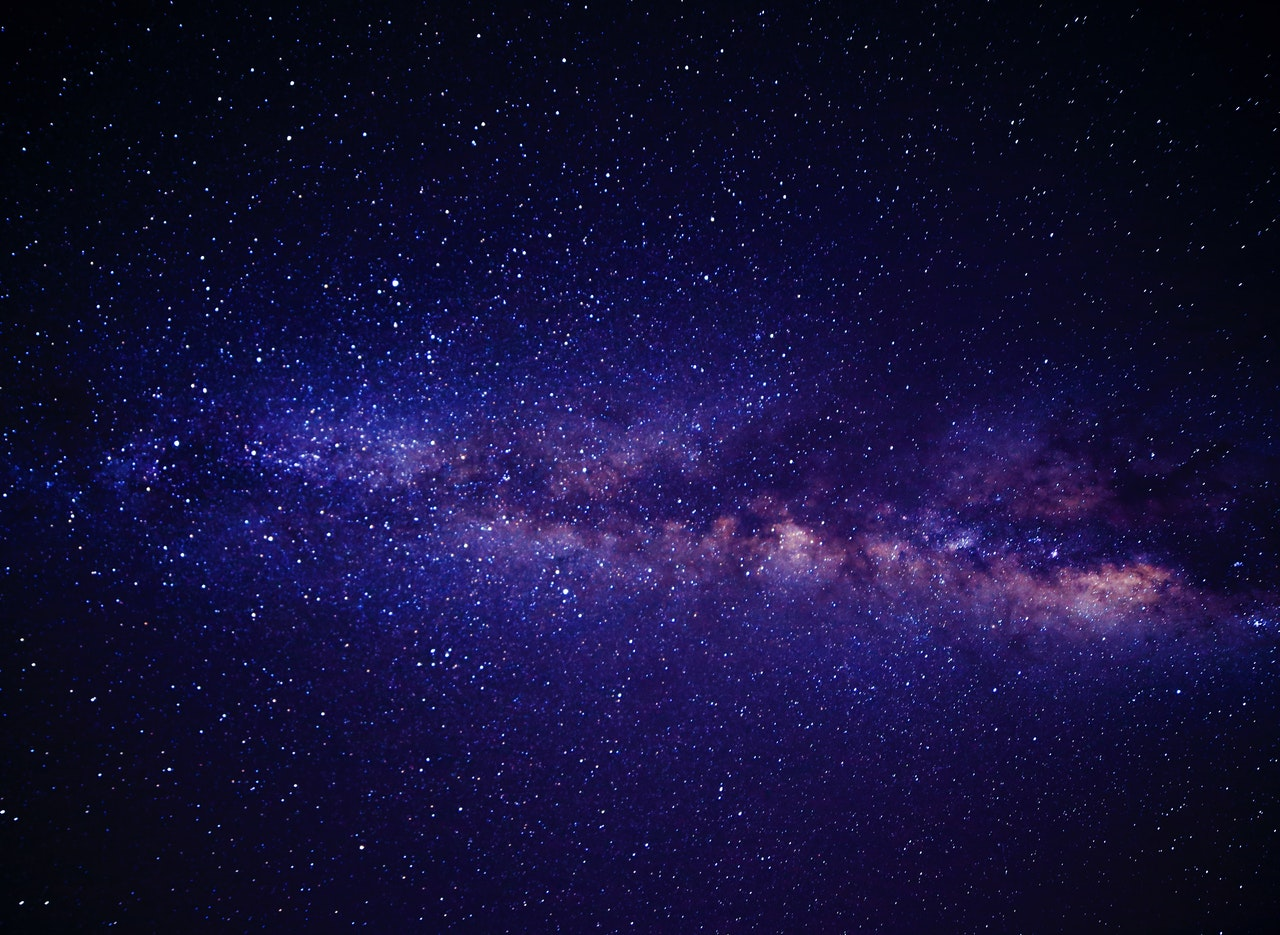
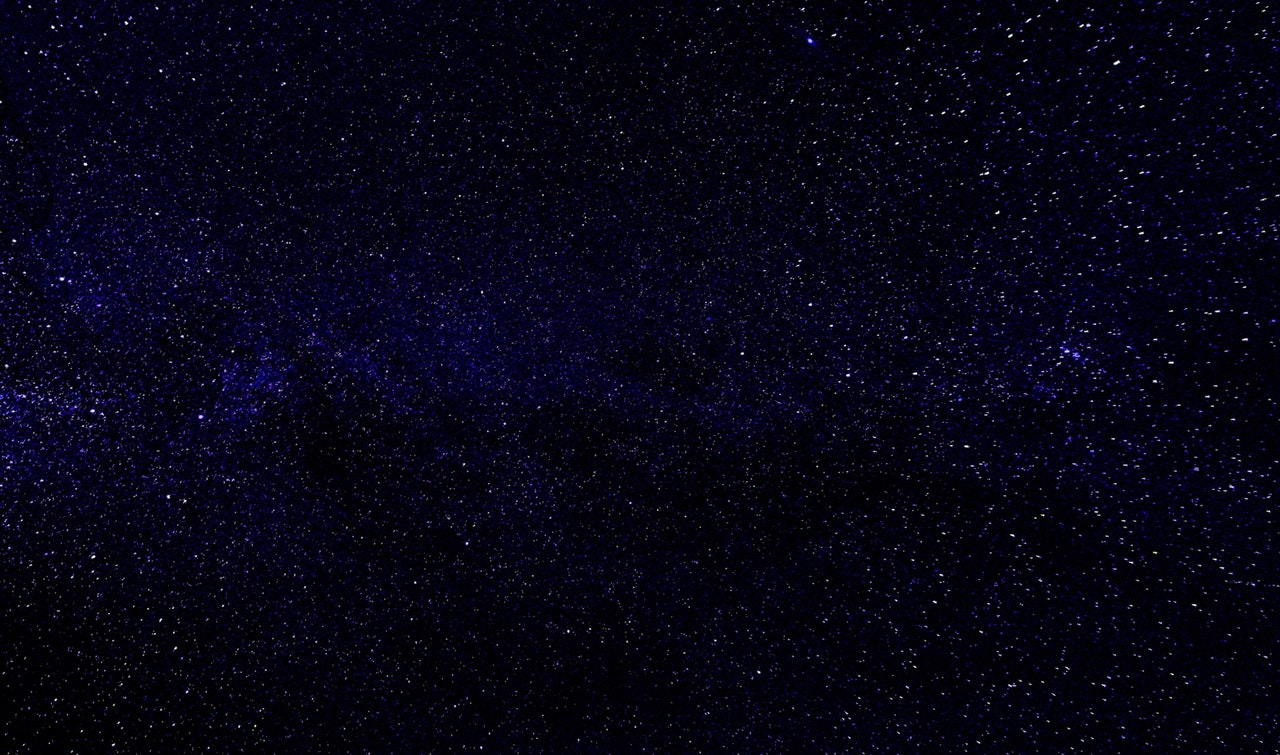
add background

diff --git a/BoucingBall/index.html b/BoucingBall/index.html
@@ -7,11 +7,18 @@
     <meta name="viewport" content="width=device-width, initial-scale=1">
     <script src="https://code.jquery.com/jquery-3.3.1.slim.min.js" integrity="sha384-q8i/X+965DzO0rT7abK41JStQIAqVgRVzpbzo5smXKp4YfRvH+8abtTE1Pi6jizo" crossorigin="anonymous"></script>
     <style>
+    body {
+        margin: 0;
+    }
     canvas {
         display: block;
-        border: 2px solid black;
-        margin: auto;
+       /* border: 2px solid black; */
+        margin: 0;
+        border: 0;
         background-image: url("universe.jpg");
+        background-repeat: no-repeat;
+        background-size: cover;
+         /* no-repeat center center fixed; */
     }
     img {
         display: none;
@@ -19,7 +26,7 @@
     </style>
 </head>
 <body>
-    <canvas id="myCanvas" width="1240" height="600"></canvas>
+    <canvas id="myCanvas"></canvas>
     <img src="ufo.png" id="BattleShip">
     <script src="ship.js"></script>
     <script src="ball.js"></script>
